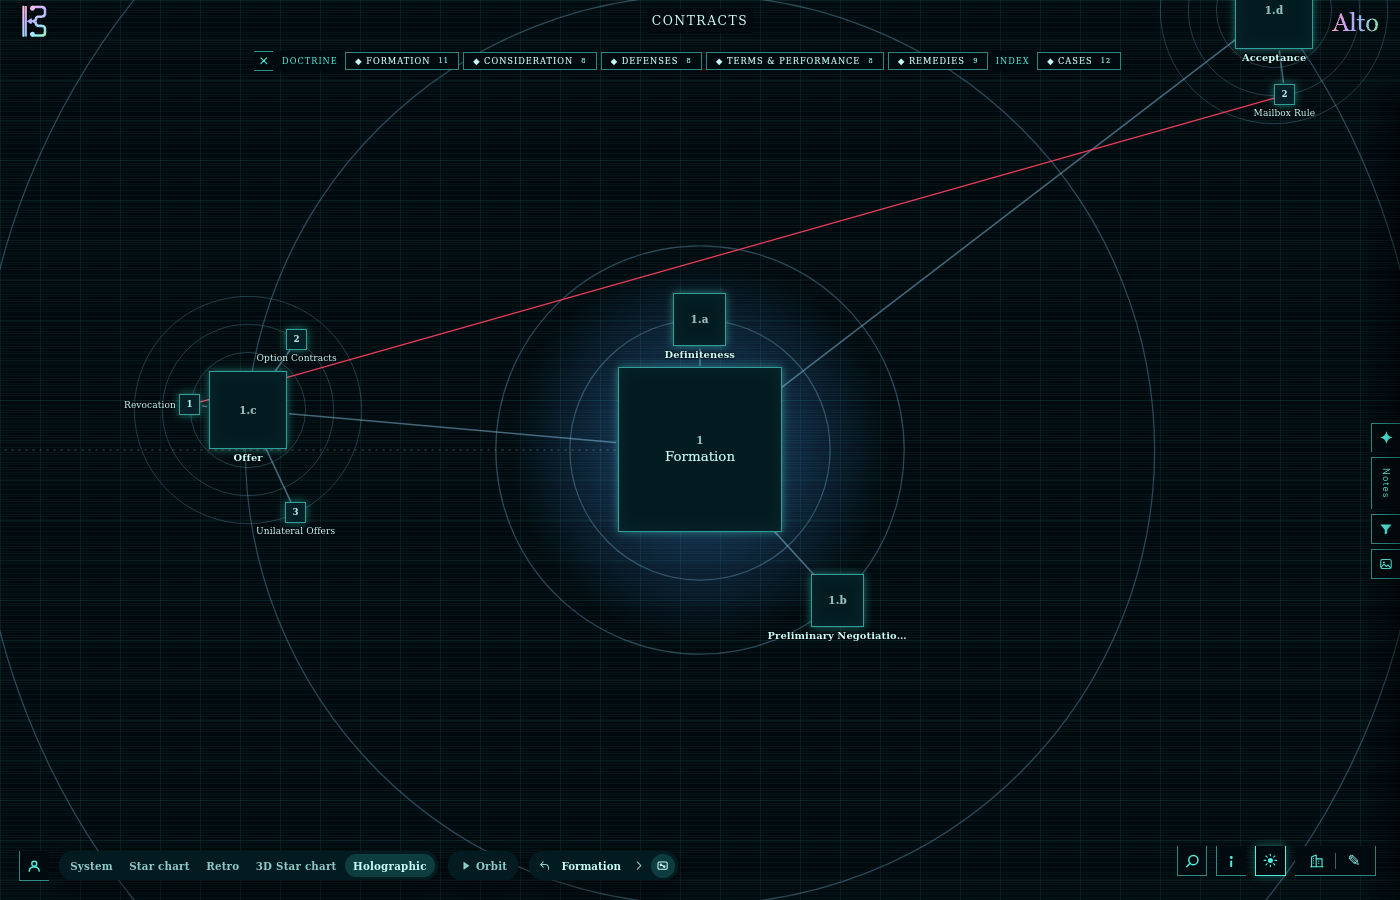
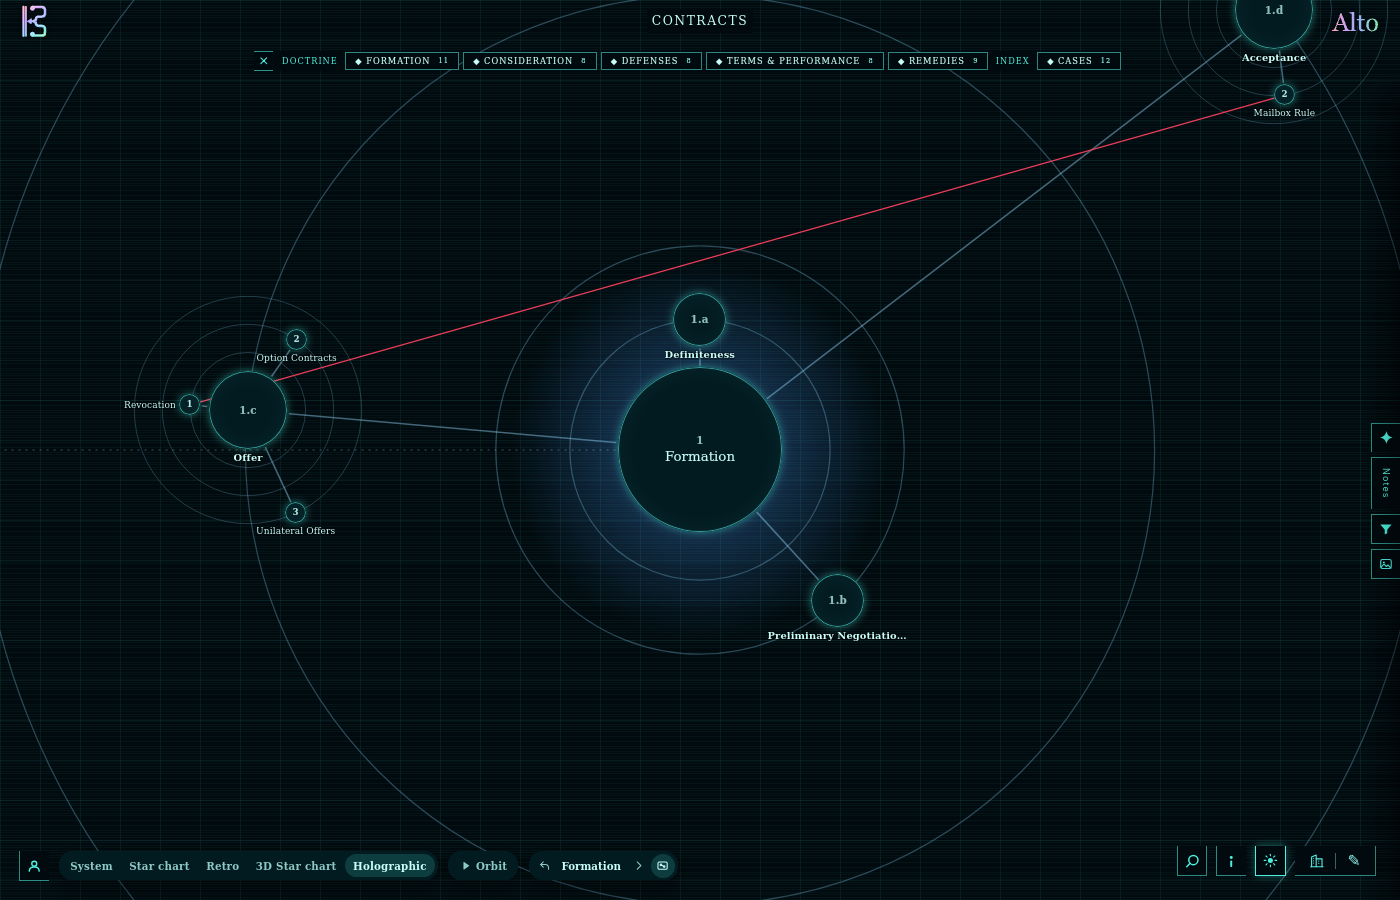
Holographic: shots for Art: round planets, the six backgrounds
Claude-Session: https://claude.ai/code/session_01NpC4JRXDEAH3bNsSXhqt9Z

diff --git a/notes-shots/holo/README.md b/notes-shots/holo/README.md
@@ -9,3 +9,9 @@ What to look at:
 - Homepage: Retro's homepage rules (alto-home, retro.HOME_CSS) re-inked in cyan; the faded format symbol stays.
 - Phone: the unit band under the title stays navy and the corner controls (MAP, MENU, INFO, FILTER, NOTES, MARK) stay rounded,
   exactly as in Retro today. Not changed (phone UI is suggest-first); a suggestion for Luke.
+
+## 30 Oct, later (Luke in session)
+- System shots (`*-s-*`) retaken: planets, suns and moons are round again ("we don't want square planets").
+- `backgrounds/`: the six Holographic-only backgrounds (Neon rain, Amber haze, Grid horizon, Signal rain, Targeting,
+  Lightspeed) on a timeline, light and dark, plus `sheet-dark.png` / `sheet-light.png` with all six side by side.
+  Original SVG scenes in the genre, nothing taken from any film.
